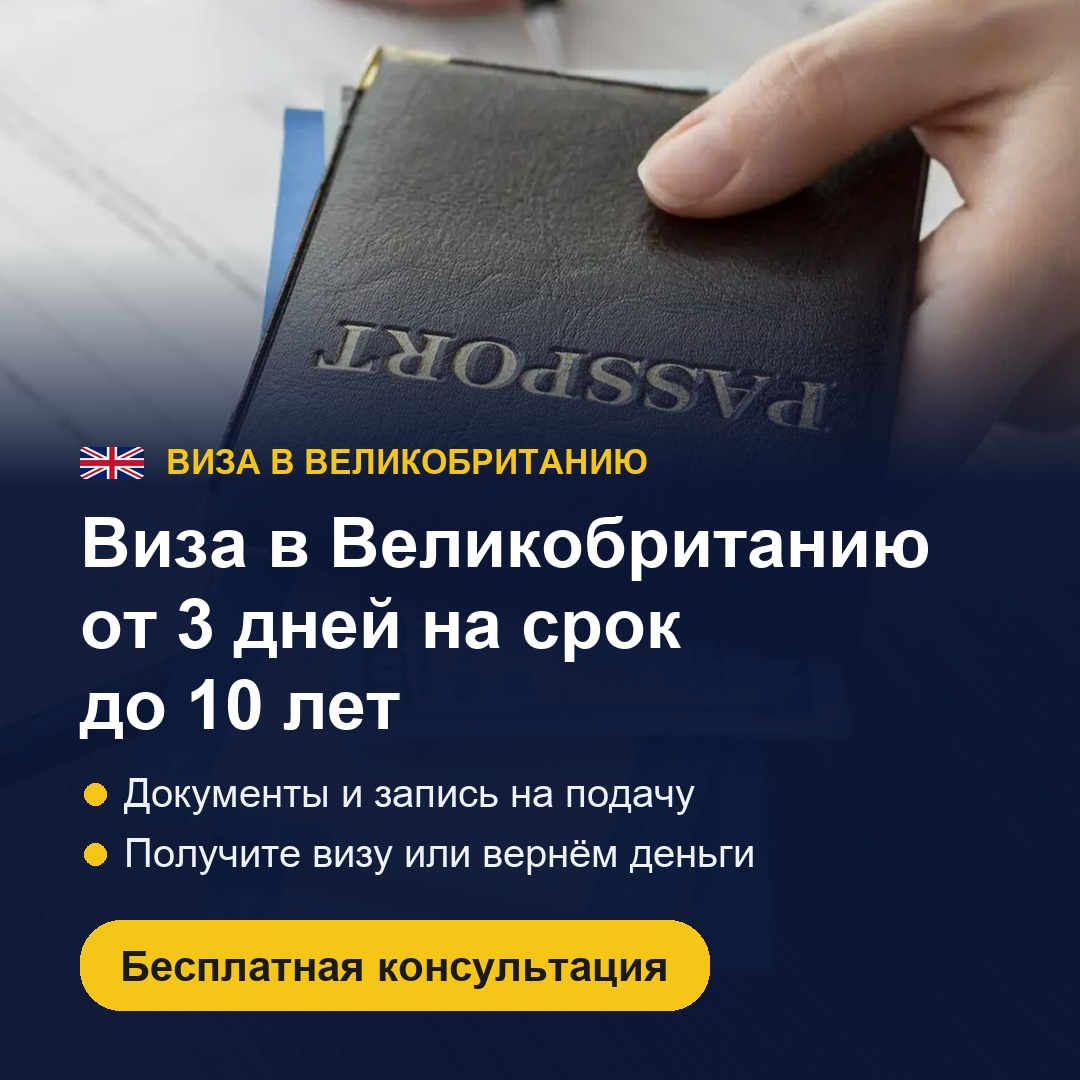
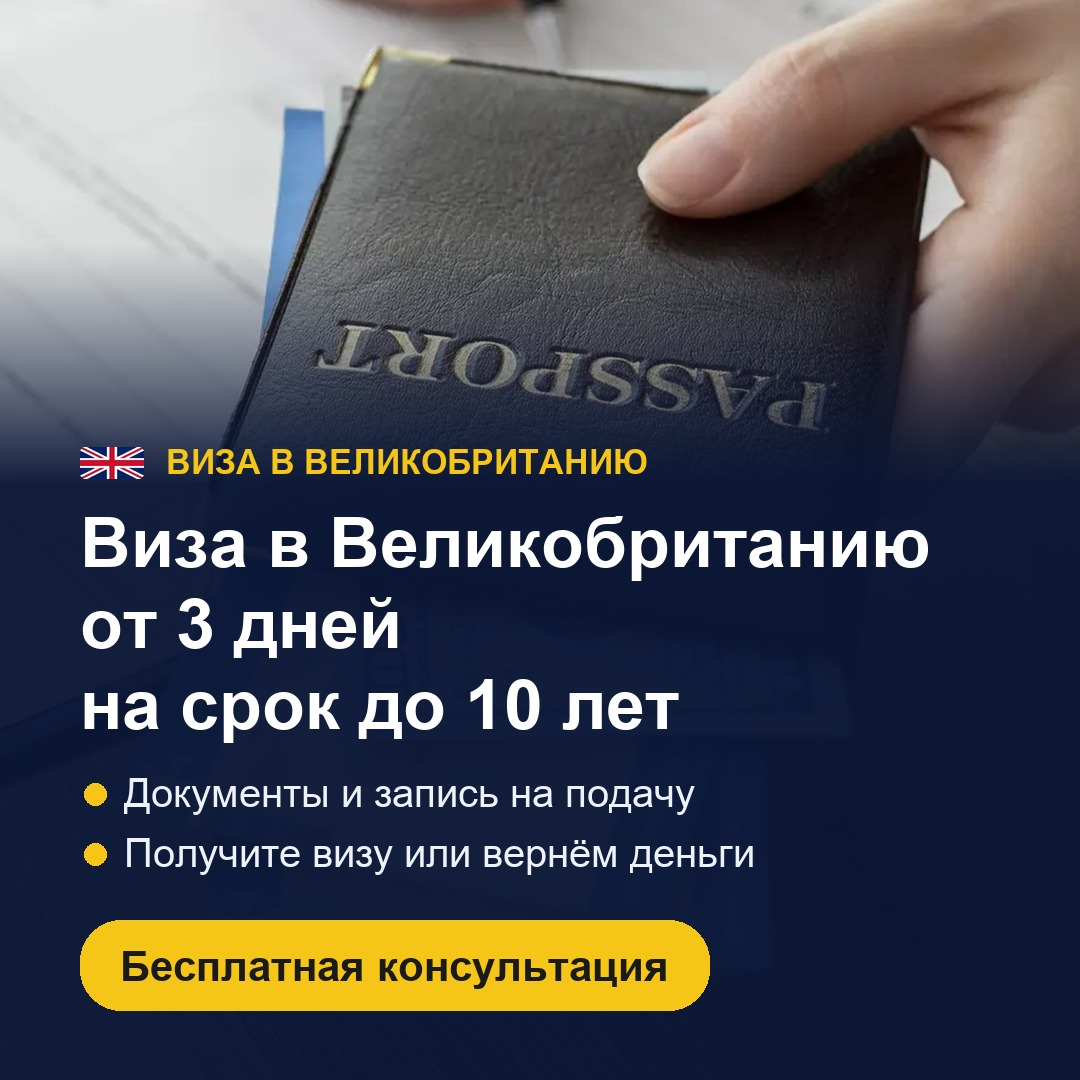
Креатив Великобритании: «на срок до 10 лет» одной строкой

Changed region(s): [[0.0611, 0.55, 0.6417, 0.7028]]

diff --git a/vscom/tools/visa_creatives.py b/vscom/tools/visa_creatives.py
@@ -118,7 +118,7 @@ C = {
     },
     "uk": {
         "dir": "Виза в Великобританию (VSC UK RU)", "flag": flag_gb, "tag": "ВИЗА В ВЕЛИКОБРИТАНИЮ",
-        "head": ["Виза в Великобританию", "от 3 дней на срок", "до 10 лет"],
+        "head": ["Виза в Великобританию", "от 3 дней", "на срок до 10 лет"],
         "bullets": ["Документы и запись на подачу", "Получите визу или вернём деньги"],
     },
 }
